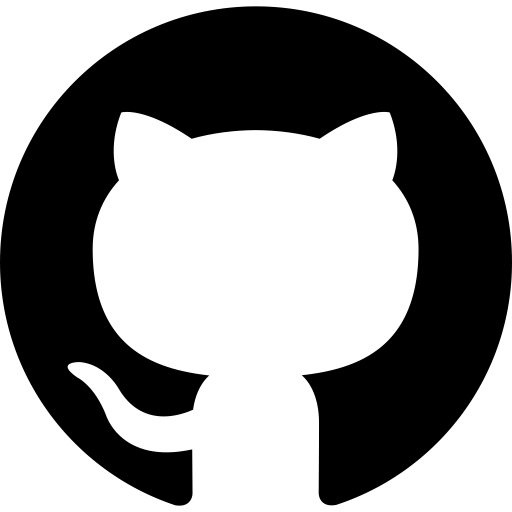
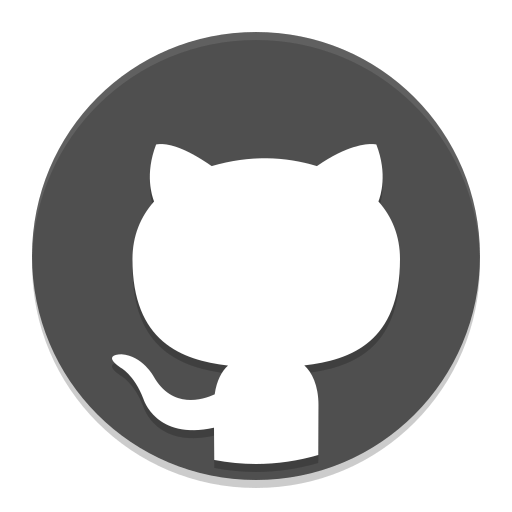
atualizado

diff --git a/estilo/style.css b/estilo/style.css
@@ -56,33 +56,149 @@
     padding: 20px;
     font-size: 2.5em;
     font-family: var(--fonte1);
+    text-shadow: 5px 2px 5px #f9f9f92f;
+    text-align: center;
+    font-size: 3em;
 }
 
 .projetoimg {
-    background-color: black;
-    display: grid;
-    grid-template-columns: 1fr 1fr;
-    gap: 20px;
-    padding: 20px;
+   display: flex;
+   flex-wrap: wrap;
+   gap:20px ;
+   background-color: black;
 }
 
-.projetoimg .img1 {
-    grid-column: 1;
-    grid-row: 1;
-    width: 400px;
-    height:auto ;
-} 
 
-.projetoimg .img2 {
-    grid-column: 2;
-    grid-row: 1 / span 2;
-    width: 400px;
-    height: 500px;  
-}
-
-.projetoimg .img3 {
-    grid-column: 1;
-    grid-row: 2;
-    width: 400px;
+ .img1 {
+    width: 500px;
     height: auto;
+    margin-left: 20px;
+    filter: grayscale(100%);
+    transition: 0.3s ease;
+    border-radius: 5px;
+}
+
+.img1:hover {
+    filter: grayscale(0%);
+    box-shadow: 5px 5px 5px #f9f9f948;
+}
+
+.img2 {
+    width: 500px;
+    height: auto;
+    margin-left: 20px;
+    filter: grayscale(100%);
+    transition: 0.3s ease;
+    border-radius: 5px;
+}
+
+.img2:hover {
+    filter: grayscale(0%);
+    box-shadow: 5px 5px 5px #f9f9f948;
+}
+
+.img3 {
+    width: 500px;
+    height: auto;
+    margin-left: 20px;  
+    filter: grayscale(100%);
+    transition: 0.3s ease;
+    border-radius: 5px;
+}
+
+.img3:hover {
+    filter: grayscale(0%);
+    box-shadow: 5px 5px 5px #f9f9f948;
+}
+
+.img4 {
+    width:500px;
+    height: auto;
+    margin-left: 20px;
+    filter: grayscale(100%);
+    transition: 0.3s ease;
+    border-radius: 5px;
+}
+
+.img4:hover {
+    filter: grayscale(0%);
+    box-shadow: 5px 5px 5px #f9f9f948;
+}
+
+.contato {
+    background-color: black;
+}
+
+.contatoimg {
+    display: flex;
+    justify-content: center;
+    gap: 20px;
+}
+.contato .title {
+    font-size: 3em;
+}
+
+.icon1 {
+    width: 60px;
+    transition: 0.3s ease;
+    border-radius: 50px;
+}
+
+.icon1:hover {
+    filter: brightness(1.2);
+    box-shadow: 0 0 10px #0084ff, 0 0 20px #0084ff, 0 0 30px #0084ff;
+    border-radius: 50%; 
+}
+
+.icon2 {
+    width: 60px;
+    transition: 0.3s ease;
+    border-radius: 50px;
+}
+
+.icon2:hover {
+    filter: brightness(1.2);
+    box-shadow: 0 0 10px #8942fa, 0 0 20px #8942fa, 0 0 30px #8942fa;
+    border-radius: 50%; 
+}
+
+.icon3 {
+    width: 60px;
+    transition: 0.3s ease;
+    background-color: white;
+    border-radius: 50px;
+}
+
+.icon3:hover {
+    filter: brightness(1.2);
+    box-shadow: 0 0 10px #6d6c6c, 0 0 20px #6d6c6c, 0 0 30px #6d6c6c;
+    border-radius: 50%; 
+    background-color: white;
+}
+
+.icon4 {
+    width: 60px;
+    transition: 0.3s ease;
+    border-radius: 50px;
+}
+
+.icon4:hover {
+    filter: brightness(1.2);
+    box-shadow: 0 0 10px #1a29f5, 0 0 20px #1a29f5, 0 0 30px #1a29f5;
+    border-radius: 50%; 
+}
+
+footer {
+    padding:10px;
+    text-align: center;
+    background-color: black;
+    color: #f9f9f9;
+    font-family: var(--fonte2);
+    font-weight: bold;
+}
+
+footer a {
+    text-decoration: none;
+    color: #f9f9f9;
+    font-weight: bold;
 }

diff --git a/index.html b/index.html
@@ -28,25 +28,27 @@
             </a>
             <a href="https://kakauanid.github.io/slider/" target="_blank"><img src="imagens/viagens.png" alt="imagem-viagens" class="img3">
             </a>
+            <a href="https://kakauanid.github.io/pagina-portfolio/" target="_blank"><img src="imagens/paginainicial.png" alt="imagem-inicio" class="img4">
+            </a>
         </div>
     </section>
 
     <section class="contato">
-        <h2 >Contatos</h2>
+        <h2 class="title">Contatos</h2>
             <div class="contatoimg">
-                <a href="https://www.linkedin.com/in/kauan-ribeiro-6a2a05330/" target="_blank"><img src="icone/linkedin.png" alt="">
+                <a href="https://www.linkedin.com/in/kauan-ribeiro-6a2a05330/" target="_blank"><img src="icone/linkedin.png" alt="linkedin" class="icon1">
                 </a>
-                <a href="https://www.instagram.com/kakauan_/" target="_blank"><img src="icone/instagram.png" alt="">
+                <a href="https://www.instagram.com/kakauan_/" target="_blank"><img src="icone/instagram.png" alt="instagram" class="icon2">
                 </a>
-                <a href="https://github.com/Kakauanid" target="_blank"><img src="icone/github.png" alt="">
+                <a href="https://github.com/Kakauanid" target="_blank"><img src="icone/github2.png" alt="github" class="icon3">
                 </a>
-                <a href="https://www.facebook.com/kauan.alves.9/?locale=pt_BR" target="_blank"><img src="icone/facebook.png" alt="">
+                <a href="https://www.facebook.com/kauan.alves.9/?locale=pt_BR" target="_blank"><img src="icone/facebook.png" alt="facebook" class="icon4">
                 </a>
             </div>
     </section>
 
     <footer>
-        <p>Site Criado por <strong><a href="https://www.instagram.com/kakauan_/">Kauan Alves</a></strong></p>
+        <p>Site Criado por <strong><a href="https://www.instagram.com/kakauan_/">Kauan Ribeiro</a></strong></p>
     </footer>
 
 </body>
